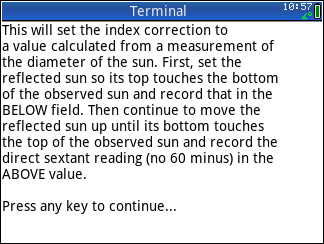
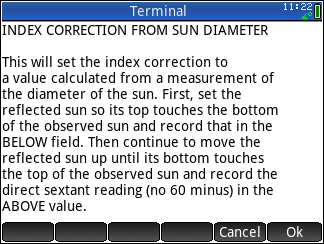
Added manual default index correction

diff --git a/README.md b/README.md
@@ -42,7 +42,9 @@ For an excellent textbook on celestial navigation and the process of sight reduc
   * [Making a Fix](#making-a-fix)
   * [Ephemerides](#ephemerides)
   * [Star Finder](#star-finder)
-  * [Calculating Index Correction from Sun diameter](#calculating-index-correction-from-sun-diameter)
+  * [Setting Default Index Correction](#setting-default-index-correction)
+    *[Direct Entry](#direct-entry)
+	*[Calculation from Sun diameter measurement][(#calculation-from-sun-diameter-measurement)
 
 # Installing the Program
 The program can be installed on an HP Prime calculator or on a PC or Mac running the [HP Prime Virtual Calculator](https://www.hpcalc.org/details/8939) from the source files in the */src* folder of this repository or from the binary files in the */bin* folder.
@@ -283,13 +285,27 @@ Upon submitting the form, the calculator will perform the ephemerides calculatio
 
 While dragging or holding a key down, only the stars and planets will be redrawn. The grid lines will be redrawn when the keys and the touchscreen are released.
 
+## Setting Default Index Correction
+
+Whenever a new sight is entered, a value for the index correction of the sextant must be specified. A default value for the index correction can be defined using the *INDEX_CORRECTION* program. The value of the default index correction can either be entered directly or it can be calculated based on a measurement of the diameter of the Sun.
+
+Start by launching the *INDEX_CORRECTION* program and choose either the *Direct* or the *Solar* method using the soft keys. At the end of the procedure, the value of the index correction for all sights that have no sextant angle entered will be set to the new default index correction value (i.e. the index correction of existing sights will not be changed).
+
+![Index Correction options](https://github.com/placidanomaly/HPPrimeSightReduction/blob/main/img/index_correction.png)
+
+### Direct Entry
+
+When selecting the Direct soft key, the following input screen appears. Enter the default index correction in the field in decimal minutes (MM.m), with a negative value for an on-scale correction and a positive value for an off-scale correction.
+
+![Direct Entry](https://github.com/placidanomaly/HPPrimeSightReduction/blob/main/img/index_correction_input.png)
+
 ## Calculating Index Correction from Sun diameter
 
-The program contains a function to apply the index correction method described in [this document](https://www.starpath.com/online/celestial/solar_ic.pdf). After running this program, the default value for the index correction in the sight reduction forms will be set to the value calculated by this procedure (otherwise the default index correction value will be zero). To run the program, highlight the **Sight Reduction** program, press the <img alt="Run" src="https://github.com/placidanomaly/HPPrimeSightReduction/blob/main/img/keys/run.png" valign="middle"> soft key, and hit the <img alt="6" src="https://github.com/placidanomaly/HPPrimeSightReduction/blob/main/img/keys/6.png" valign="middle"> key to run the **SOLAR_IC** program. The program briefly describes the measurements that need to be taken:
+Calculating the index correction from a measurement of the diameter of the Sun is accomplished by following the procedure described in [this document](https://www.starpath.com/online/celestial/solar_ic.pdf). The procedure assumes that the index correction is small enough such that the top measurement is on-scale and the bottom measurement is off-scale. The program briefly describes the measurements that need to be taken:
 
 ![Solar IC intro](https://github.com/placidanomaly/HPPrimeSightReduction/blob/main/img/solaric_intro.png)
 
-Values for the *Below* and *Above* observations as read on the sextant, in arc minutes, can be entered in the input form. Do NOT correct the off scale *Below* reading by subtracting it from 60, the program will do that for you. Use the value directly read on the instrument.
+Values for the *Below* and *Above* observations as read on the sextant, in decimal arc minutes (MM.m), can be entered in the input form. Do NOT correct the off scale *Below* reading by subtracting it from 60, the program will do that for you. Use the value directly read on the instrument.
 
 ![Solar IC input](https://github.com/placidanomaly/HPPrimeSightReduction/blob/main/img/solaric_input.png)
 
@@ -297,7 +313,7 @@ The program will display the calculated index correction result as well as the i
 
 ![Solar IC output](https://github.com/placidanomaly/HPPrimeSightReduction/blob/main/img/solaric_output.png)
 
-After pressing a key, the program prompts whether to accept or reject the calculated index correction. If accepted, the value will be applied to all sights that did not have a manually entered index correction and will be used as the default value for new sights.
+After pressing a key, the program prompts whether to accept or reject the calculated index correction.
 
 # Future Improvements
 The ephemeris calculations are usually accurate to within less than 0.1' of the values in the Almanac for the period 1800-2200 (subject to Delta T adjustments), but errors of up to 0.3' are sometimes seen. This is sufficient for most practical cases of celestial navigation but perfect precision would be better. The differences are still being investigated because the same program in Javascript from Henning Umland's web site seems to always output the exact same numbers as the Almanac. The possibility of a discrepancy in the code is one theory but a more likely one is that the lower number of significant digits in the calculator vs. a regular computer introduces rounding errors that add up in the lengthy calculations, but that has yet to be proven.
